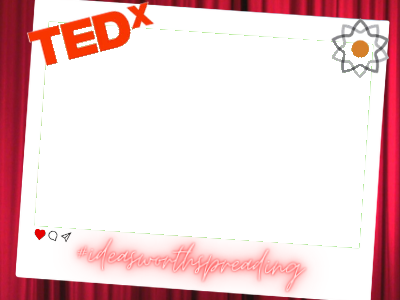
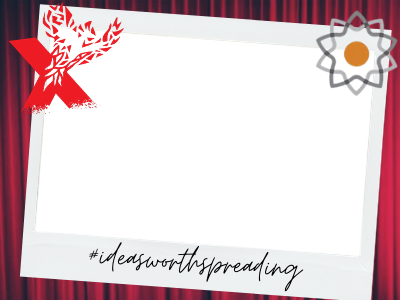
photobooth filters final

diff --git a/application/static/scripts/photobooth.js b/application/static/scripts/photobooth.js
@@ -87,11 +87,11 @@ screenshotButton.onclick = video.onclick = function () {
 //sets filter depending on dropdown
 function setFilter() {
     if (filterSelect.value === "Ashes") {
-        filterImage.src = "../static/images/photobooth filters/Logos.png";
+        filterImage.src = "../static/images/photobooth filters/Recording.png";
     } else if(filterSelect.value === "Logo"){
-        filterImage.src = "../static/images/photobooth filters/Thank you for coming....png";
+        filterImage.src = "../static/images/photobooth filters/Thanks for Coming.png";
     }else if(filterSelect.value === "Speakers"){
-        filterImage.src = "../static/images/photobooth filters/Phoenix.png";
+        filterImage.src = "../static/images/photobooth filters/Stars.png";
     }else{
         filterImage.src = "../static/images/photobooth filters/Frame.png";
     }

diff --git a/application/templates/photobooth.html b/application/templates/photobooth.html
@@ -14,7 +14,7 @@
 
     <span id="video-box">
         <span id="video_overlays">
-            <img id="ted-logo" src="../static/images/photobooth%20filters/Logos.png" alt="TED logo">
+            <img id="ted-logo" src="../static/images/photobooth%20filters/Recording.png" alt="TED logo">
         </span>
         <span><video autoplay></video></span>
         <span
